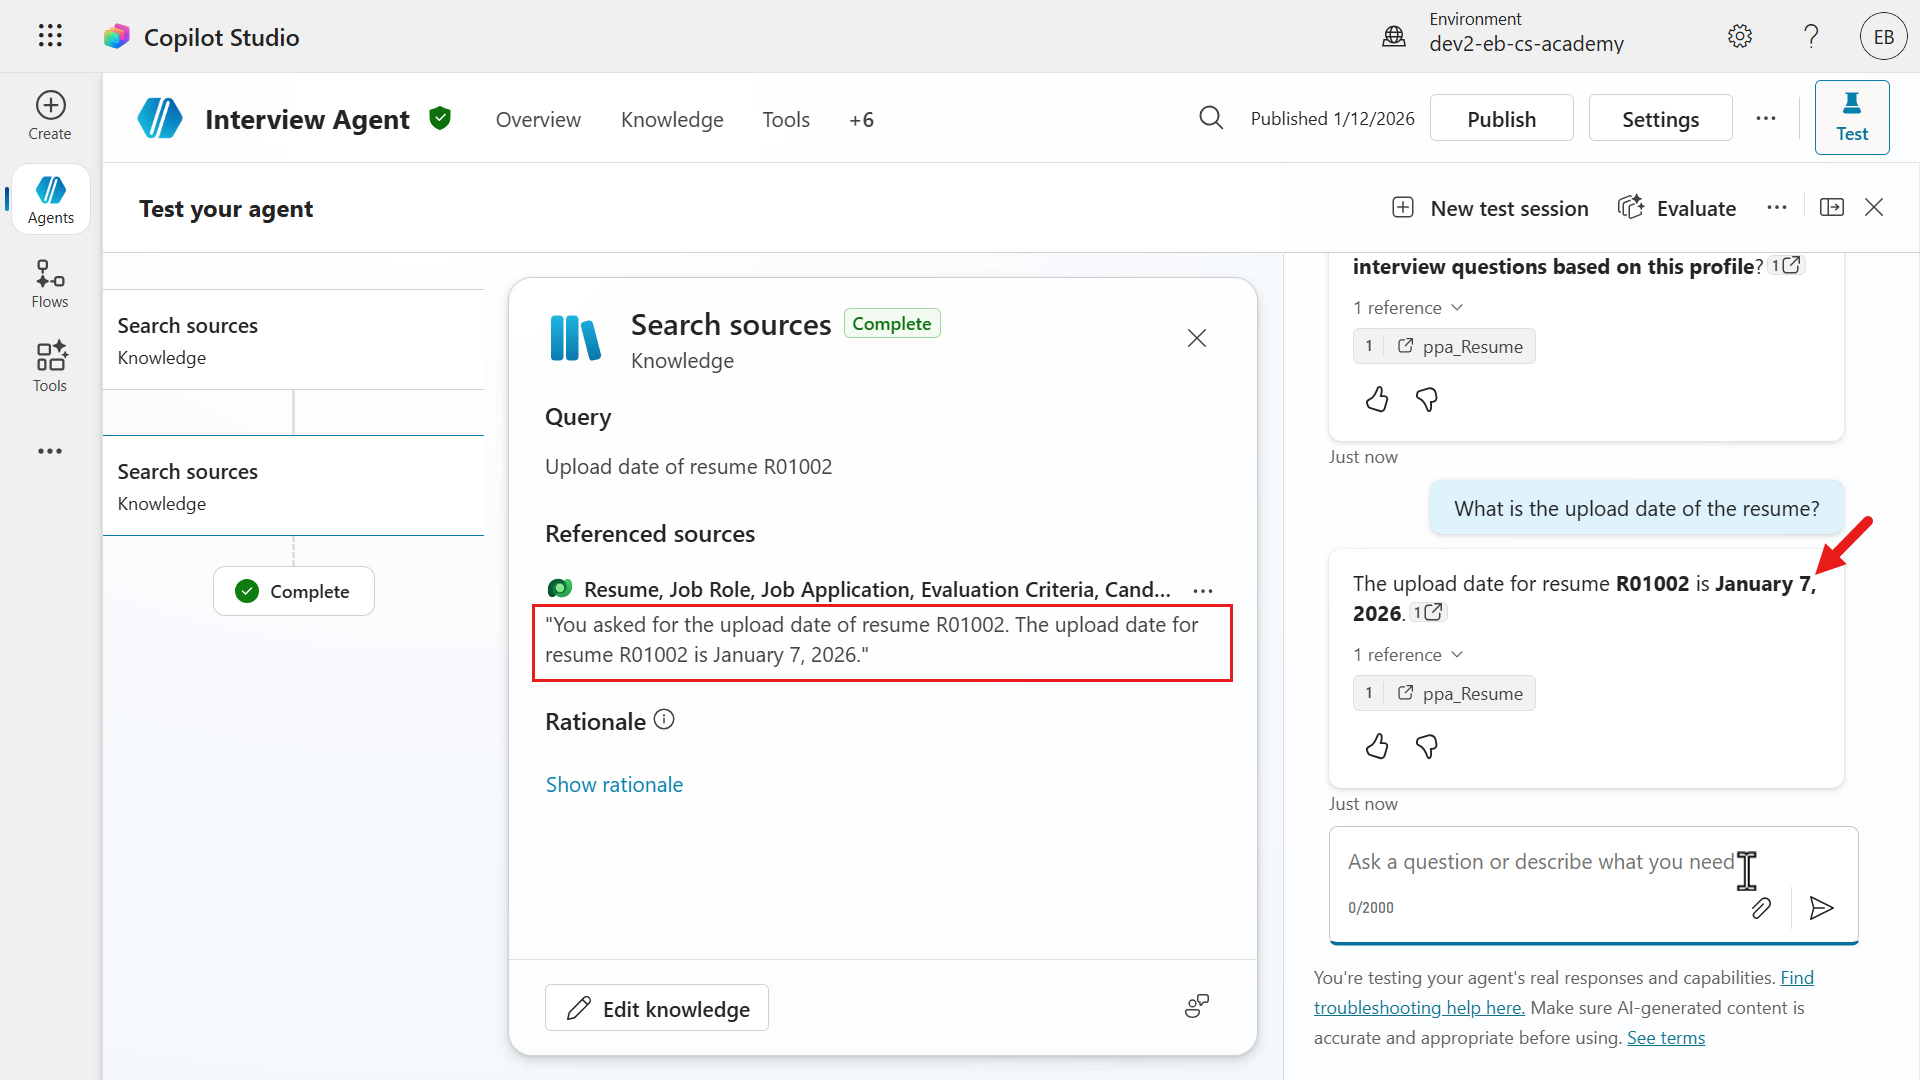
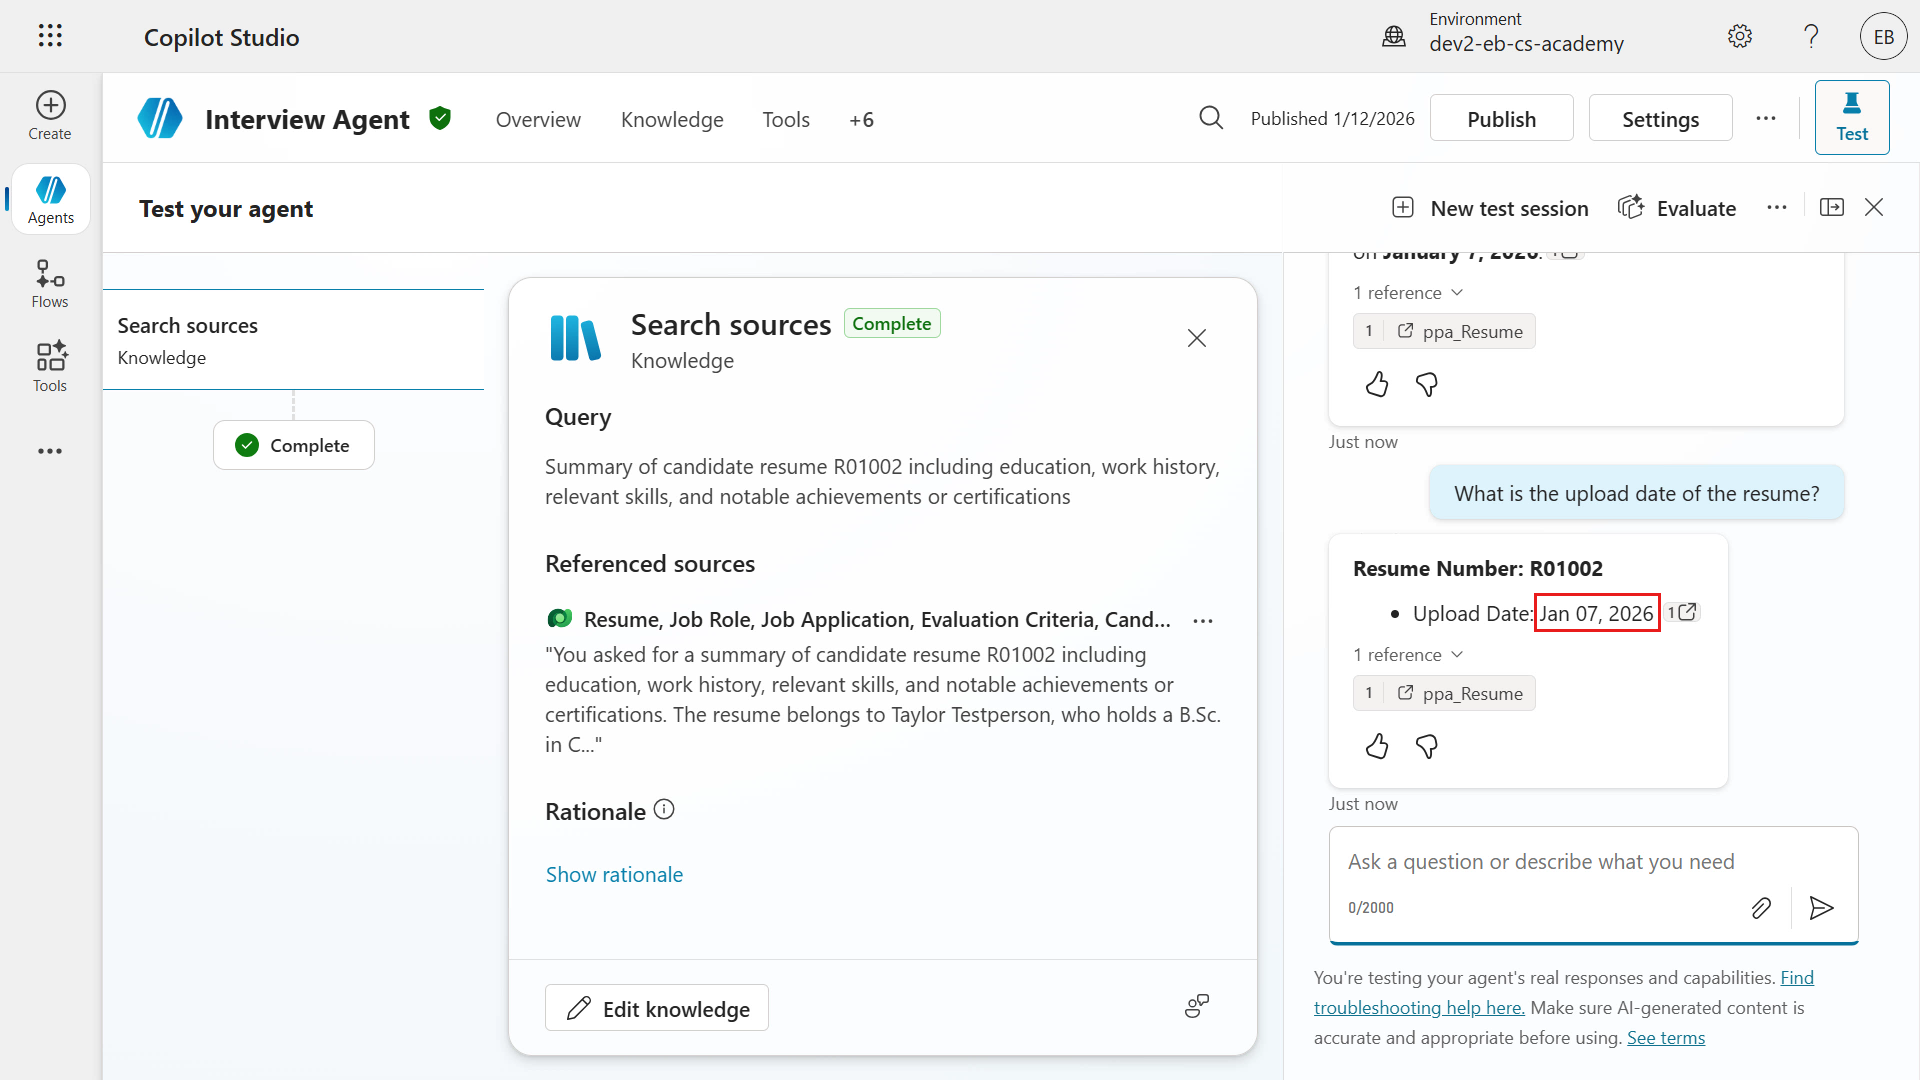
Updated lab exercises in docs\operative\05-model-selection\index.md, removed images and uploaded images in docs\operative\05-model-selection\assets

diff --git a/docs/operative/05-model-selection/index.md b/docs/operative/05-model-selection/index.md
@@ -309,7 +309,7 @@ In this lab, you’ll compare responses, including the formatting, from three di
     # Resume information
 
     - For resume information, start with the Resume Number as the header in bold, followed by bullet points.
-    - Example:
+    - All dates MUST always be formatted as 'MMM dd, yyyy'. Example:
     ```
 
     ![Response formatting instructions of agent](assets/5.1_01_SettingsResponses.png)
@@ -344,6 +344,8 @@ Let's compare the responses of the GPT-4.1 default model with the GPT-5 Chat pre
 
     ![Enter first question for GPT-4.1 model](assets/5.2_01_GPT4.1Model.png)
 
+    You can see the model is searching through the configured Dataverse knowledge sources that we set up in [Mission 03: Multi-Agent Systems](../03-multi-agent/index.md/#_3-2-1-create-the-connected-interview-agent)
+
 1. A summary of the resume will next be displayed. How did it align with our response formatting? We can see the output starts with the Resume Number in bold, followed by bullet points.
 
     ![Question 1 response for GPT-4.1  model](assets/5.2_02_GPT4.1_FormatCheck.png)
@@ -352,17 +354,9 @@ Let's compare the responses of the GPT-4.1 default model with the GPT-5 Chat pre
 
     ![Certifications returned by the model](assets/5.2_02_GPT4.1_Question1Response.png)
 
-    We can see that the certifications are correct when reviewing the associated Resume file.
+    The skills returned by the model are correct when reviewing the associated Resume file. We can also see that the certifications are correct when reviewing the associated Resume file. Great!
 
     ![Verify certifications in Resume file](assets/5.2_02_GPT4.1_Question1ResponseCheck.png)
-
-    Let's do one more check by reviewing the skills listed.
-
-    ![Skills returned by the model](assets/5.2_03_GPT4.1_Question1Response.png)
-
-    The skills returned by the model are correct when reviewing the associated Resume file. Great!
-
-    ![Verify skills in Resume file](assets/5.2_03_GPT4.1_Question1ResponseCheck.png)
 
 1. Next, we'll verify the date formatting is followed by the agent. Enter the question below.
 
@@ -380,7 +374,15 @@ Let's compare the responses of the GPT-4.1 default model with the GPT-5 Chat pre
     Can you provide suggestions of questions to ask in an interview for the Power Platform developer role (Job role number J1004) based on its associated evaluation criteria? Can you also please provide what the answers may be for each question?
     ```
 
-    The returned response lists interview questions by evaluation criteria. Each question is followed by a `Model Answer`. Notice how the answer is in _first person_, where it's outlining the expected answers from the candidate to the question asked.
+    The returned response firsts lists the evaluation criteria for the Power Platform Developer role (defined by the Dataverse Job Role row). Each criterion includes a percentage weight. After the evaluation criteria, questions are listed for each criterion followed by a `Model Answer`. Notice how the answer is in _first person_, where it's outlining the expected answers from the candidate to the question asked.
+
+    - The response is organized under **criteria**, **question** and **answer**
+        - **Criteria**:
+            - This indicates the criteria evaluated
+        - **Question**:
+            - The interview question being evaluated
+        - **Model Answer**:
+            - This subsection lists points that the agent considers acceptable strong answers in a candidate's response.
 
     ![Question 3 response for GPT-4.1 model](assets/5.2_05_GPT4.1_01_Question3Response.png)
 
@@ -412,7 +414,7 @@ Let's compare the responses of the GPT-4.1 default model with the GPT-5 Chat pre
 
     ![Question 2 response for GPT-5 Chat model](assets/5.2_08_GPT5_Question2Response.png)
 
-    You can see that the model did not correctly follow the date format.
+    You can see that the model correctly followed the date format this time.
 
 1. We'll ask the same third question for a list of interview questions based on the evaluation criteria of a job role, and provide what the potential answers are. Enter the question below.
 
@@ -420,15 +422,9 @@ Let's compare the responses of the GPT-4.1 default model with the GPT-5 Chat pre
     Can you provide suggestions of questions to ask in an interview for the Power Platform developer role (Job role number J1004) based on its associated evaluation criteria? Can you also please provide what the answers may be for each question?
     ```
 
-    A response with the suggested list of interview questions is returned by the criteria outlined in the Job Role Dataverse row, and the potential answers a candidate can provide during the interview. Notice how this time,
+    Similar to the previous model, the returned response firsts lists the evaluation criteria for the Power Platform Developer role including the percentage weight but this time provides some type of explanation for the criterion. Again, questions are listed for each criterion followed by a `Model Answer`. Notice how the answer is in _first person_, where it's outlining the expected answers from the candidate to the question asked.
 
-    - The response is organized under **criteria**, **question** and **answer**
-        - **Criteria**:
-            - This indicates the criteria evaluated
-        - **Question**:
-            - The interview question being evaluated
-        - **Answer**:
-            - This subsection lists points that the agent considers acceptable strong answers in a candidate's response.
+    The model similarly suggests interview questions is by each criterion, and the potential answers a candidate can provide during the interview.
 
     ![Question 3 response for GPT-5 Chat model](assets/5.2_09_GPT5_01_Question3Response.png)
 
@@ -460,7 +456,7 @@ Let's compare the responses of the GPT-4.1 default model with the GPT-5 Chat pre
 
     ![Thought process of the model](assets/5.2_11_ThoughtProcess.png)
 
-1. The response this time is more concise and we can see that the date format was also correctly followed.
+1. The response this time is more concise and we can see that a date was included in the summary, notice how the date format was correctly followed.
 
     ![Question 1 response for Claude Sonnet 4.5 model](assets/5.2_12_Question1Response.png)
 
@@ -474,21 +470,13 @@ Let's compare the responses of the GPT-4.1 default model with the GPT-5 Chat pre
 
     You can see that the date format was correctly followed.
 
-1. We'll ask the same third question for a list of interview questions based on the evaluation criteria of a job role, and provide what the potential answers are. Enter the question below.
+1. Finally, we'll ask the same third question for a list of interview questions based on the evaluation criteria of a job role, and provide what the potential answers are. Enter the question below.
 
     ```text
     Can you provide suggestions of questions to ask in an interview for the Power Platform developer role (Job role number J1004) based on its associated evaluation criteria? Can you also please provide what the answers may be for each question?
     ```
 
-    A response with the suggested list of interview questions is returned by the criteria outlined in the Job Role Dataverse row, and the potential answers a candidate can provide during the interview. Notice how this time,
-
-    - The response is organized under **criteria**, **question** and **answer**
-        - **Criteria**:
-            - This indicates the criteria evaluated
-        - **Question**:
-            - The interview question being evaluated
-        - **Answer**:
-            - This provides a suggested sample answer and notice how the answer is in _first person_, where it's outlining the expected answer from the candidate to the question asked.
+    A response with the suggested list of interview questions is returned and grouped by the criteria outlined in the Job Role Dataverse row, and the potential answers a candidate can provide during the interview.
 
     ![Question 3 response for Claude Sonnet 4.5 model](assets/5.2_14_01_Question3Response.png)
 
